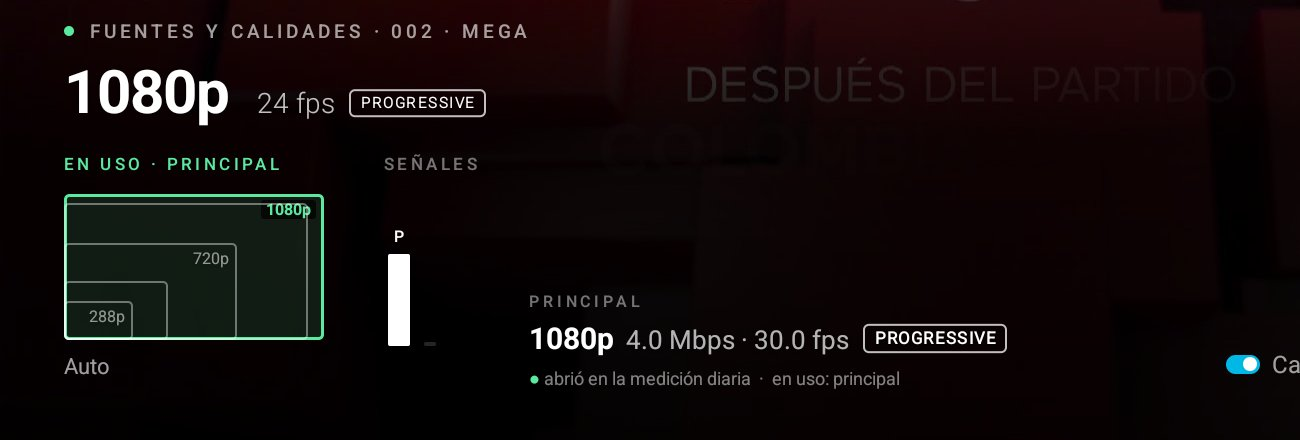
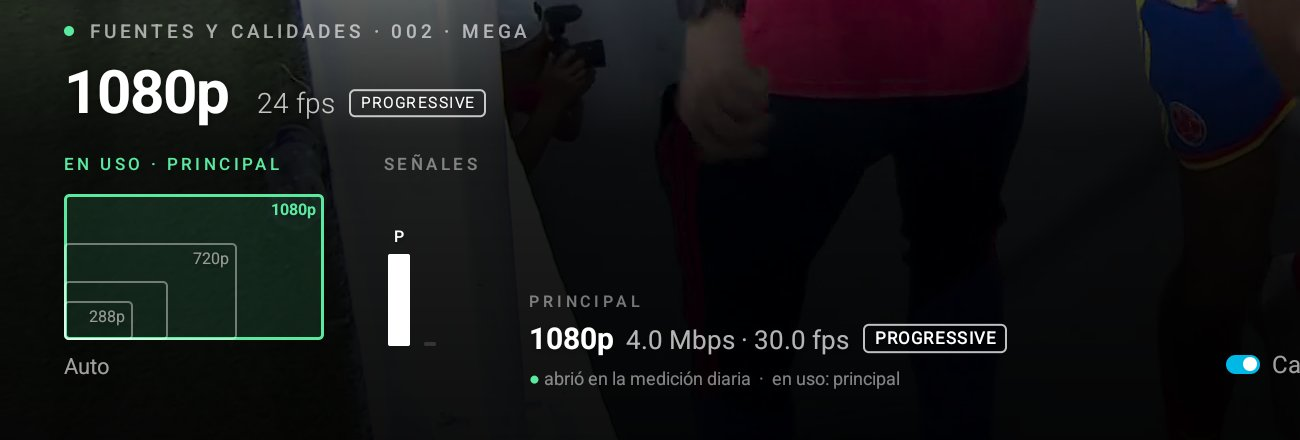
fix(selector): una pantalla por resolución (0.6.62)
Foto del usuario de Mega: con dos pistas 1080 se dibujaban dos pantallas.
El selector moderno muestra una calidad por resolución (la elegida o la de
mayor bitrate); «Auto» sigue usando todas.

diff --git a/app/src/main/java/cl/streambox/tv/MainSelector.java b/app/src/main/java/cl/streambox/tv/MainSelector.java
@@ -2761,12 +2761,13 @@ abstract class MainSelector extends MainGuide {
         List<VideoTrackOption> qualities = player == null
                 ? Collections.emptyList()
                 : collectVideoTrackOptions(player.getCurrentTracks());
+        VideoTrackOption selected = selectedQualityOption(channel, qualities);
+        if (!classicUi) qualities = onePerHeight(qualities, selected);
         if (qualities.size() > 1) {
             boolean automatic = playbackPreferences != null
                     && playbackPreferences.isAutomaticQuality(channel);
             playbackOptions.add(PlaybackOption.automatic(automatic));
         }
-        VideoTrackOption selected = selectedQualityOption(channel, qualities);
         for (VideoTrackOption quality : qualities) {
             playbackOptions.add(PlaybackOption.quality(
                     quality,
@@ -2774,6 +2775,22 @@ abstract class MainSelector extends MainGuide {
             ));
         }
         return qualities;
+    }
+
+    /**
+     * Una calidad por resolución (0.6.62, pedido del usuario con foto de Mega, que trae dos pistas
+     * 1080: «en la foto se ven 2», opción «1» = una sola pantalla por resolución). Queda la elegida
+     * si es una de ellas; si no, la de mayor bitrate. «Auto» sigue usando todas.
+     */
+    static List<VideoTrackOption> onePerHeight(List<VideoTrackOption> qualities, VideoTrackOption selected) {
+        Map<Integer, VideoTrackOption> best = new LinkedHashMap<>();
+        for (VideoTrackOption quality : qualities) {
+            VideoTrackOption kept = best.get(quality.height);
+            if (kept == null || (kept != selected && (quality == selected || quality.bitrate > kept.bitrate))) {
+                best.put(quality.height, quality);
+            }
+        }
+        return best.size() == qualities.size() ? qualities : new ArrayList<>(best.values());
     }
 
     VideoTrackOption selectedQualityOption(

diff --git a/ESTADO.md b/ESTADO.md
@@ -11,7 +11,7 @@
 
 ## Hoy, en una mirada
 
-- **0.6.62 — un solo número por calidad repetida (2026-11-13, foto del usuario de Mega 002)**: Mega trae dos pistas 1080 y «1080p» salía dos veces, una encima de otra (la regla de la 0.6.61 solo miraba bordes). Ahora un número tampoco se escribe si choca con otro visible; el de la que suena siempre se ve. Probado en VibeTV con APK debug y Mega: un solo «1080p».
+- **0.6.62 — una pantalla por resolución (2026-11-13, foto del usuario de Mega 002: «en la foto se ven 2», opción «1»)**: Mega trae dos pistas 1080 y se dibujaban dos pantallas con «1080p» encima del otro. Ahora el moderno muestra una calidad por resolución (`onePerHeight`: la elegida si es una de ellas; si no, la de mayor bitrate; «Auto» sigue eligiendo entre todas) y un número tampoco se escribe si choca con otro visible. Probado en VibeTV con APK debug y Mega: una sola pantalla 1080 (`docs/diseno/pantallas-dos-1080-app.jpg`).
[2 lines of base64/hex data omitted]
 - **0.6.59 — recuperación de TvVoo (2026-11-06)**: backend Vavoo directo en el engine existente `tvvoo`; no depende de PC ni del addon público retirado. Se restaura el cliente de sesión desde 0.6.43, conservando el resolutor y selector actuales, alineados con TvVoo actual (cliente 3.1.0, ping Vypn, UA Clean). Se respeta HTTP/HTTPS publicado sin inventar TLS en puertos HTTP. MediaFlow obtiene los originales directamente del catálogo. En VibeTV: TNT 3 y 4 con imagen real de rugby/cricket; test HLS 4/6 (Main Event, TNT 3/4 y Eurosport 1); DAZN F1 y Eurosport 2 mantienen fallos de origen 502/403. Última prueba 02:21–02:22 UTC; resolución de las cuatro válidas en 4–5,3 s. La fuente Main Event mostró Sky Sports News en la referencia local: no corregir nombre/EPG automáticamente. Contraparte Lista M3U `08abe33` + `ce96409`: referencias estables para las seis fuentes y variantes del inventario oficial. La instancia Node de diagnóstico fue apagada; no es una dependencia de la TV.
@@ -239,7 +239,7 @@
 
 ## Bitácora (más reciente arriba)
 
-- **2026-11-13, 0.6.62**: números de pantallas que chocaban entre sí (Mega, dos 1080) ya no se superponen.
+- **2026-11-13, 0.6.62**: una pantalla por resolución en el selector (Mega traía dos 1080) y números que no chocan entre sí.
 - **2026-11-13, 0.6.61**: los números de las pantallas del selector ya no quedan cruzados por bordes (Al Jazeera).
 - **2026-11-08, 0.6.60**: selector con proveedores (barras directas + versiones TvVoo por calidad · fps · país), pistas de desplazamiento a ancho fijo y medición en vivo de la señal que suena sin segunda descarga.
 - **2026-11-07, revisión de la 0.6.59**: se devolvieron a su texto original las entradas 0.6.55 y «2026-10-07, versión Nauta», a las que la 0.6.59 les había agregado por error «`08abe33` + `ce96409`» (commits de TvVoo que no tienen relación con ellas).

diff --git a/DISENO.md b/DISENO.md
@@ -91,7 +91,7 @@ El foco nunca es un fondo de color, un velo ni un recuadro.
 - **Selector — foco y flechas (0.6.58, pedido del usuario: «el foco al principio esté en la calidad de señal, cosa que si aprieto a la derecha me voy a la resolución, y si aprieto hacia la izquierda me voy hacia eliminación»)**: no cambia lo que se ve. Al abrir, el foco está en la barra de la señal que suena (o la primera; sin señales, en la calidad elegida). ◀▶ dan la vuelta: señales → calidades → acciones → señales; ◀ desde la primera barra llega a «Papelera» y ▶ desde la última barra, a las calidades. ◀ ya no cierra el selector en esos grupos; se cierra con Atrás.
 - **Selector — proveedores (0.6.60, mockups «B3» aprobados: «me encanta», «Aplícalo»)**: un canal con versiones de TvVoo (como respaldo o como canal TvVoo) usa las pantallas de siempre a la izquierda y separa los proveedores: al centro sus señales directas en barras bajo «LISTA M3U» (o «HIGHFLY» si la principal la entrega Highfly), con punto verde si una suena y el detalle de la marcada en una línea debajo («Respaldo 07 de 11 · 720p · 4.9 Mbps · 60 fps»); a la derecha, tras una línea divisoria, «TVVOO · 3 VERSIONES» con una versión por renglón. En TvVoo no se muestra bitrate ni nombre (son la misma señal): calidad grande («1080p») y, al lado, fps y país de la versión («50 fps · Reino Unido»); «Sin señal» tenue si no responde, «Probando…» mientras consulta. Tres a la vista (190 dp de ancho fijo); con más se desplazan con el foco al centro, el encabezado pasa a «TVVOO · 4 DE 7», la línea divisoria muestra un tramo claro con la posición y hay flechas ⌃ ⌄ fijas a la derecha, solo del lado donde queda algo. Antes estos canales usaban la escala vieja y no mostraban sus respaldos directos (ESPN 3 tenía 11). Flechas: ◀▶ dan la vuelta señales → versiones → calidades → acciones; ▲▼ recorre versiones y calidades. Al abrir, el foco va a lo que suena.
 - **Selector — pistas de las barras (0.6.60, pedido del usuario: «que las horizontales queden a una distancia fija, en los bordes, tal como en la vertical»)**: con más de 10 señales directas, bajo las barras va una línea fina con el tramo claro de lo visible y ‹ › en sus dos bordes, a ancho fijo (con proveedores, 158 dp: el mismo de la línea de detalle; las 10 barras se reparten en ese ancho). Cada flecha aparece solo si queda algo de ese lado. Con 10 o menos no hay pistas y las barras van juntas a la izquierda. Reemplaza los bordes esfumados de la 0.6.55.
-- **Selector — números de las pantallas sin solaparse (0.6.61, foto del usuario de Al Jazeera: «no queda bien, se solapa»; mockup aprobado con «Si»)**: el número de una pantalla se escribe solo si ningún borde de una pantalla más chica lo cruza (antes solo se comparaba con el número de la pantalla de arriba, y con 1080/720/480/360/240 el borde de la 360 atravesaba «480p»). Las que quedan sin número siguen dibujadas y elegibles; su número aparece al marcarlas (o si es la que suena) sobre un fondo oscuro pequeño (negro al 72 %, esquinas de 1,5 dp). Mockup `pantallas-sin-solape.jpg`, app `pantallas-sin-solape-app.jpg`. Desde la 0.6.62 (foto del usuario de Mega 002, con dos pistas 1080) un número tampoco se escribe si choca con otro visible; el de la que suena siempre se ve. App `pantallas-dos-1080-app.jpg`.
+- **Selector — números de las pantallas sin solaparse (0.6.61, foto del usuario de Al Jazeera: «no queda bien, se solapa»; mockup aprobado con «Si»)**: el número de una pantalla se escribe solo si ningún borde de una pantalla más chica lo cruza (antes solo se comparaba con el número de la pantalla de arriba, y con 1080/720/480/360/240 el borde de la 360 atravesaba «480p»). Las que quedan sin número siguen dibujadas y elegibles; su número aparece al marcarlas (o si es la que suena) sobre un fondo oscuro pequeño (negro al 72 %, esquinas de 1,5 dp). Mockup `pantallas-sin-solape.jpg`, app `pantallas-sin-solape-app.jpg`. Desde la 0.6.62 (foto del usuario de Mega 002, con dos pistas 1080: «en la foto se ven 2», opción «1»): una sola pantalla por resolución (la elegida o, si no, la de mayor bitrate; «Auto» sigue usando todas), y un número tampoco se escribe si choca con otro visible; el de la que suena siempre se ve. App `pantallas-dos-1080-app.jpg`.
 - **Opciones elegibles** (calidades, versiones, Moderno|Clásico, Estándar|Invertidos): texto en
   línea con su detalle debajo; pasan a otra línea si no caben (`minimalRow`). ◀ ▶ recorre la
   fila; ▲ ▼ salta a la opción más cercana de la línea vecina.
